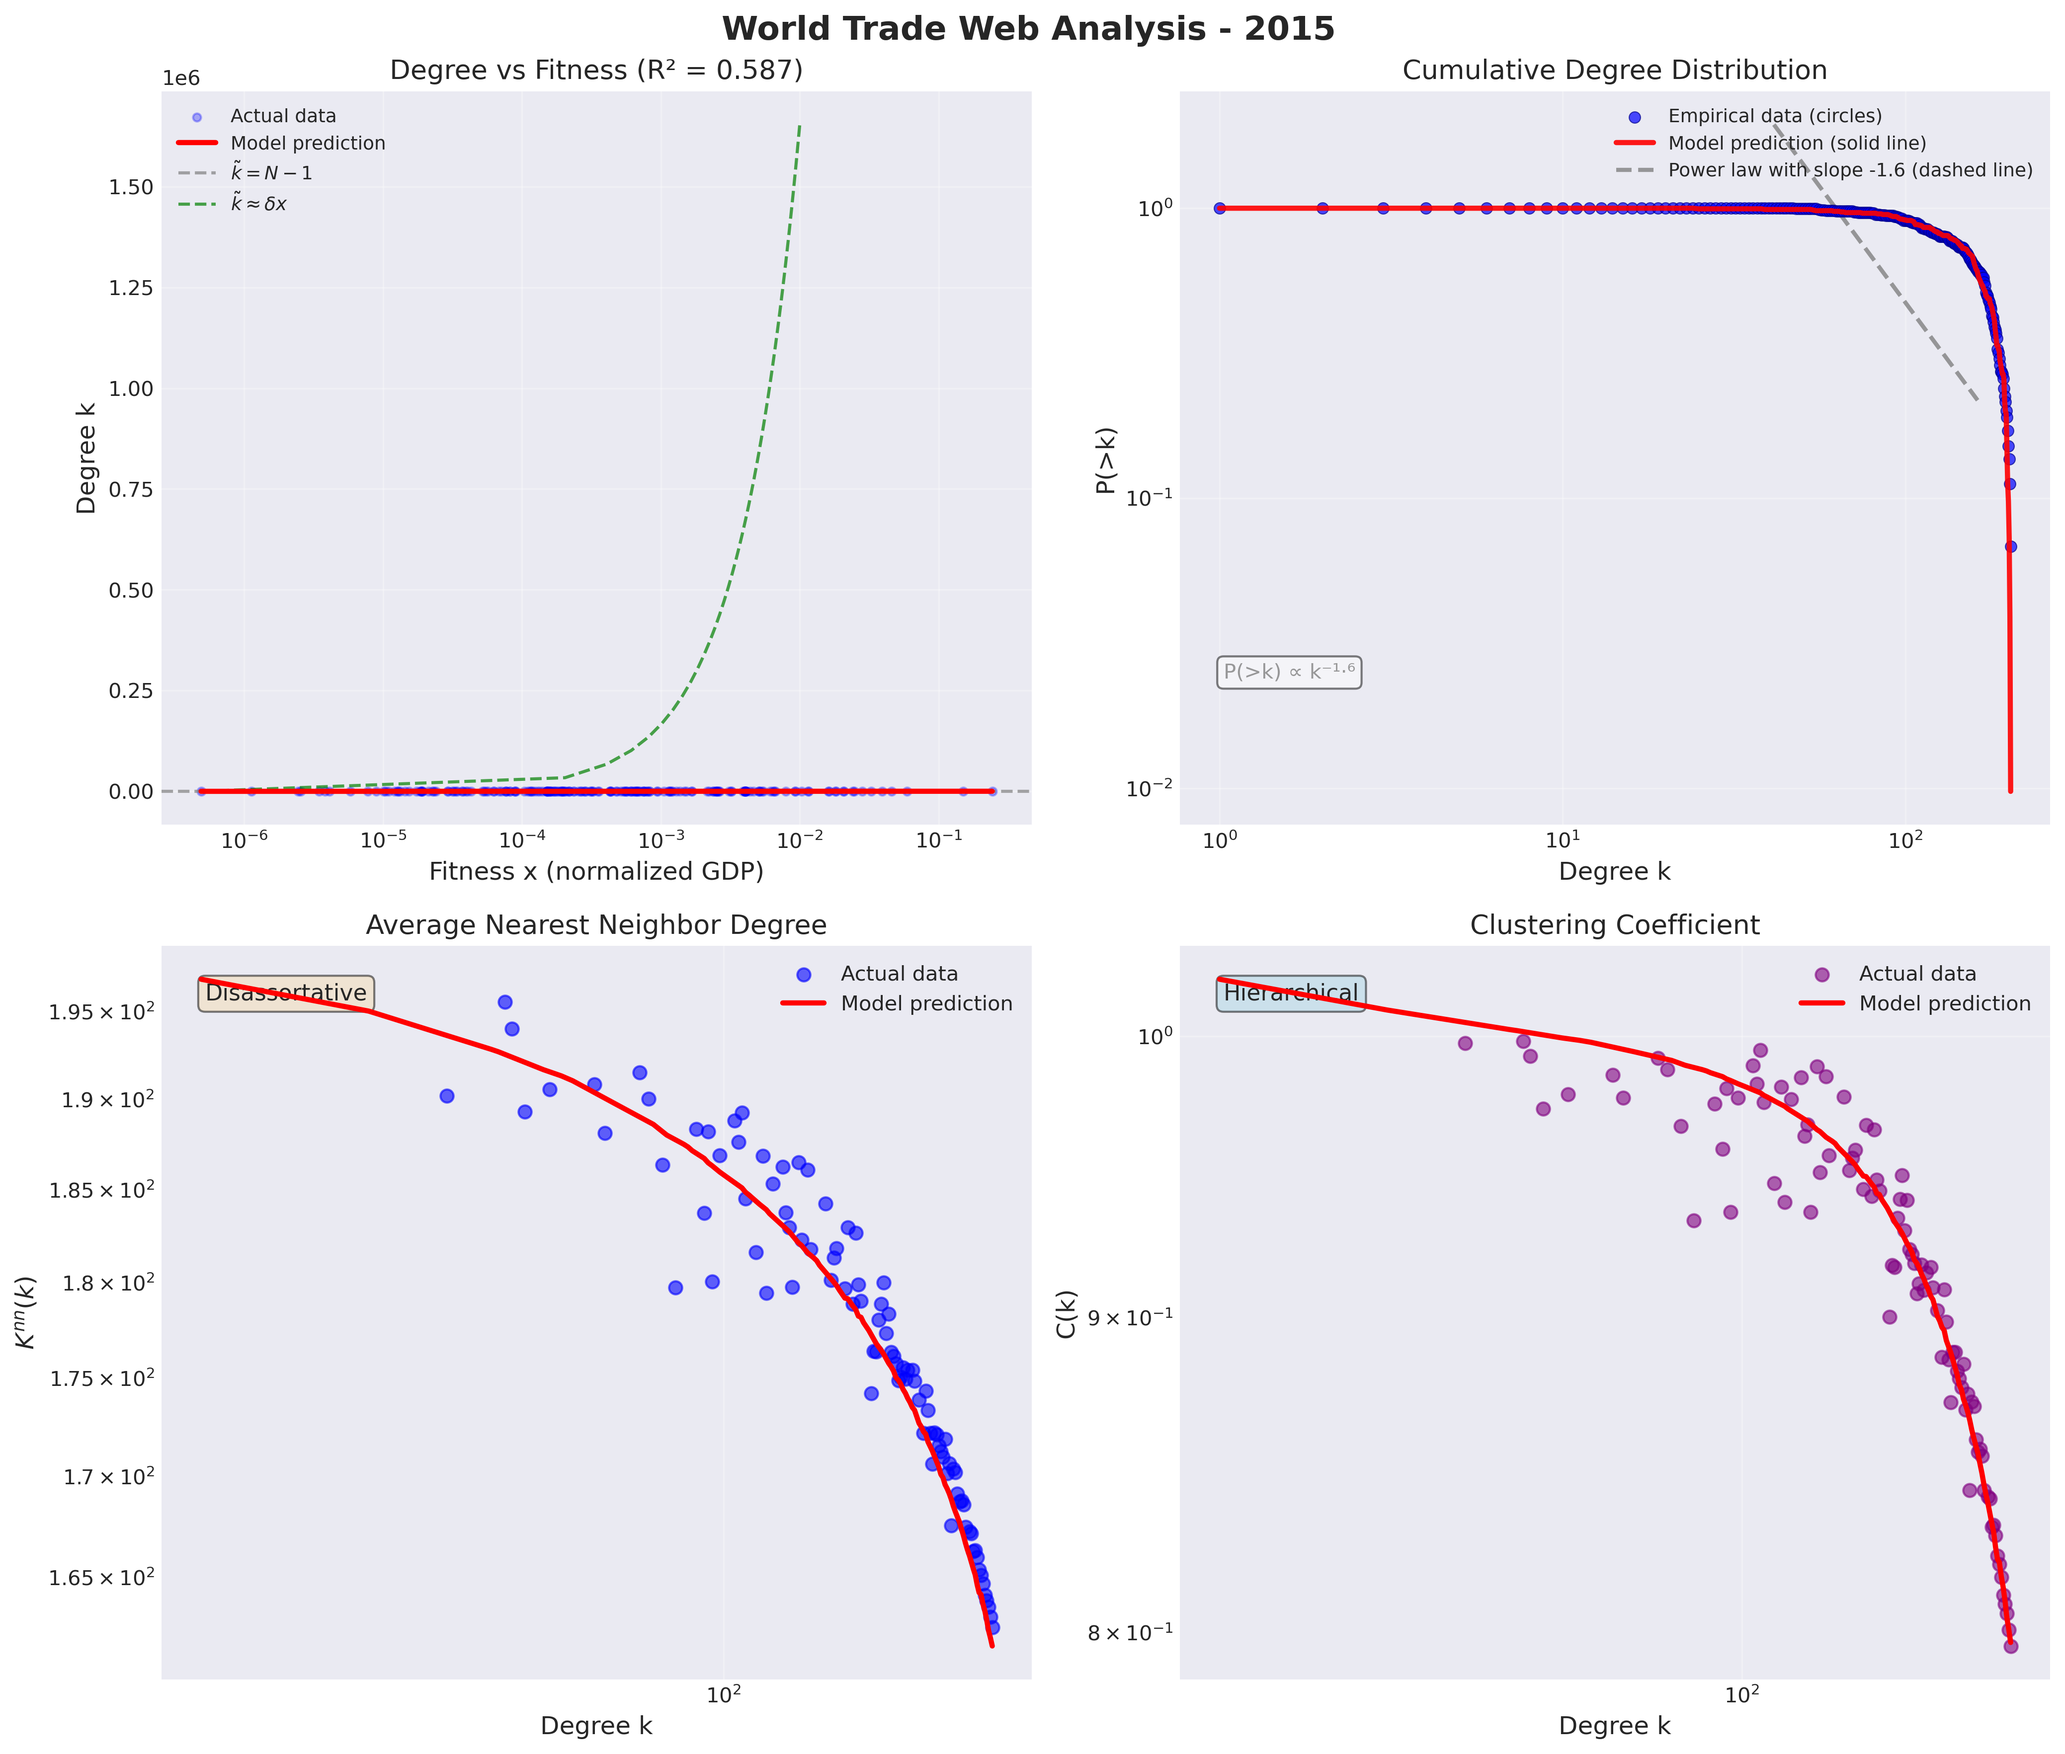
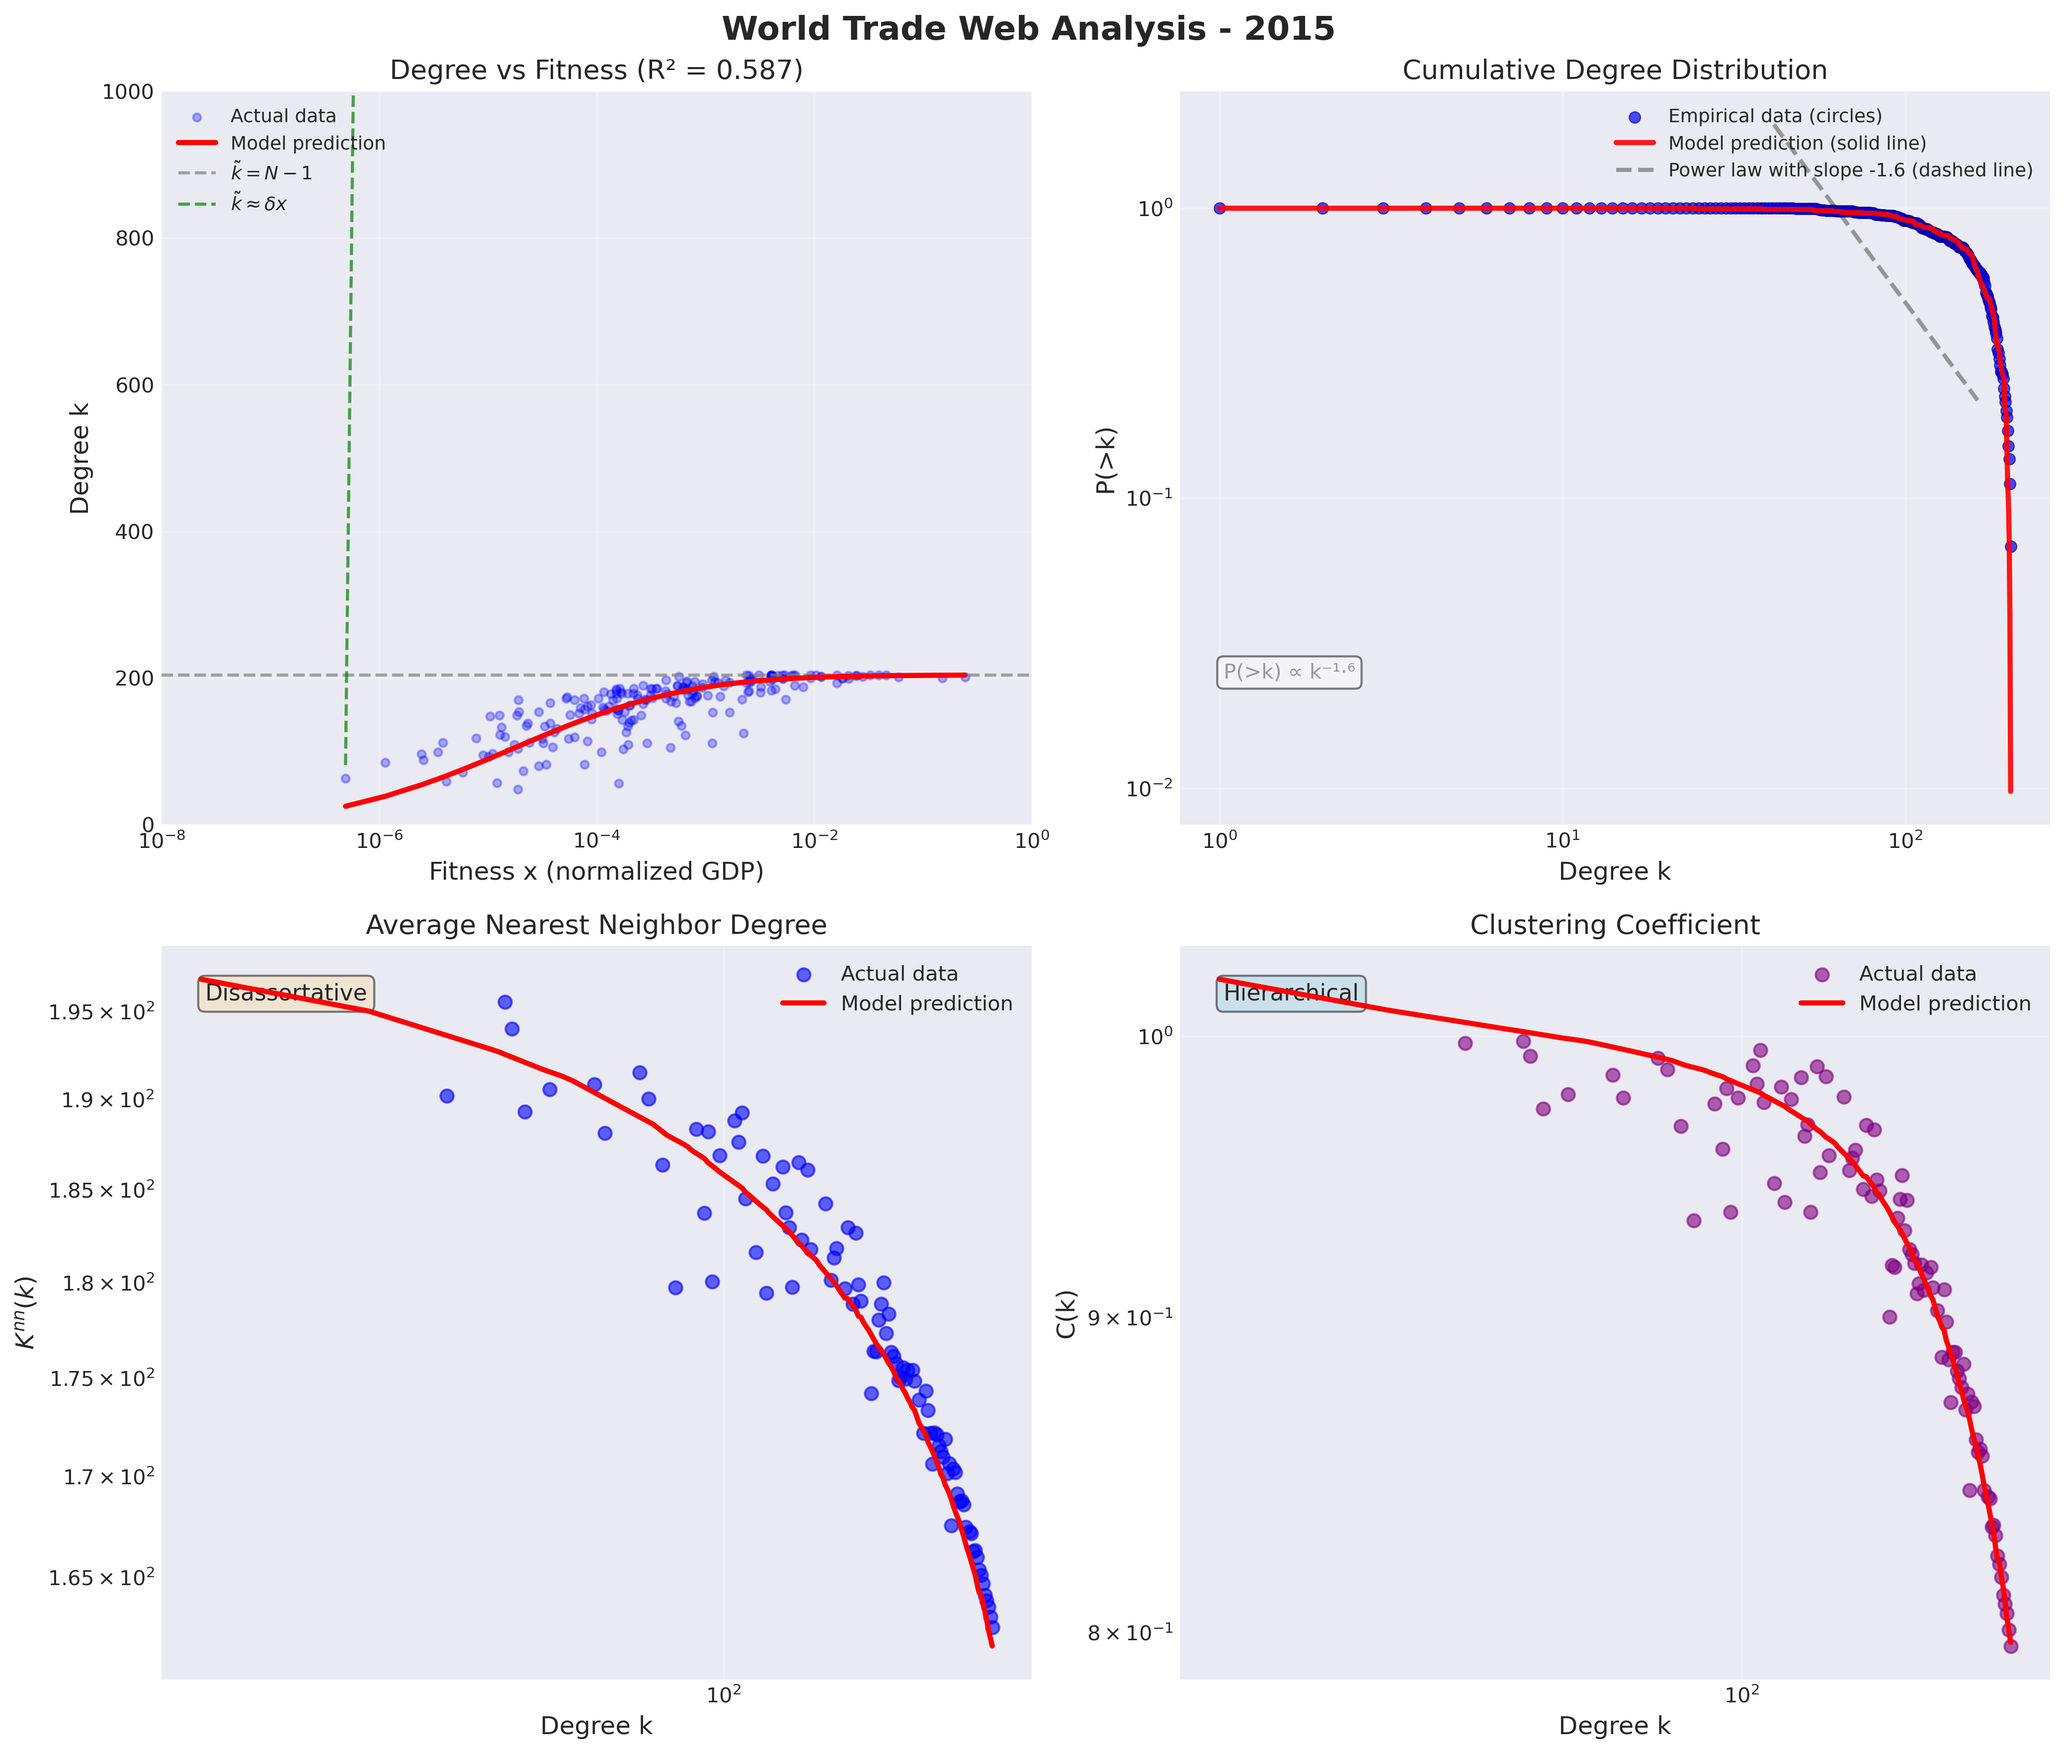
adjust K(x) figure

Changed region(s): [[0.0931, 0.3738, 0.4657, 0.4673], [0.031, 0.2181, 0.0621, 0.2804]]

diff --git a/wtw_analysis.py b/wtw_analysis.py
@@ -378,7 +378,6 @@ class FitnessModelAnalyzer:
         
         self.model_results[year] = result
         return result
-    
      
     def _calculate_model_predictions(self, year: int, delta: float) -> Optional[Dict]:
         if year not in self.networks:
@@ -534,6 +533,11 @@ class FitnessModelAnalyzer:
         ax.set_title(f'Degree vs Fitness (R² = {model.r2:.3f})', fontsize=13)
         ax.legend(fontsize=9, loc='upper left')
         ax.grid(True, alpha=0.3)
+
+        ax.set_xlim(left=1e-4, right=1.0)  
+        ax.set_ylim(bottom=0, top=1000)    
+        ax.set_xticks([1e-8, 1e-6, 1e-4, 1e-2, 1e0])
+        ax.set_xticklabels(['$10^{-8}$', '$10^{-6}$', '$10^{-4}$', '$10^{-2}$', '$10^{0}$'])
     
     def _plot_cumulative_degree_distribution(self, ax, model, topology, model_pred=None):
         if 'degree_distribution' in topology and 'cumulative_distribution' in topology['degree_distribution']:
